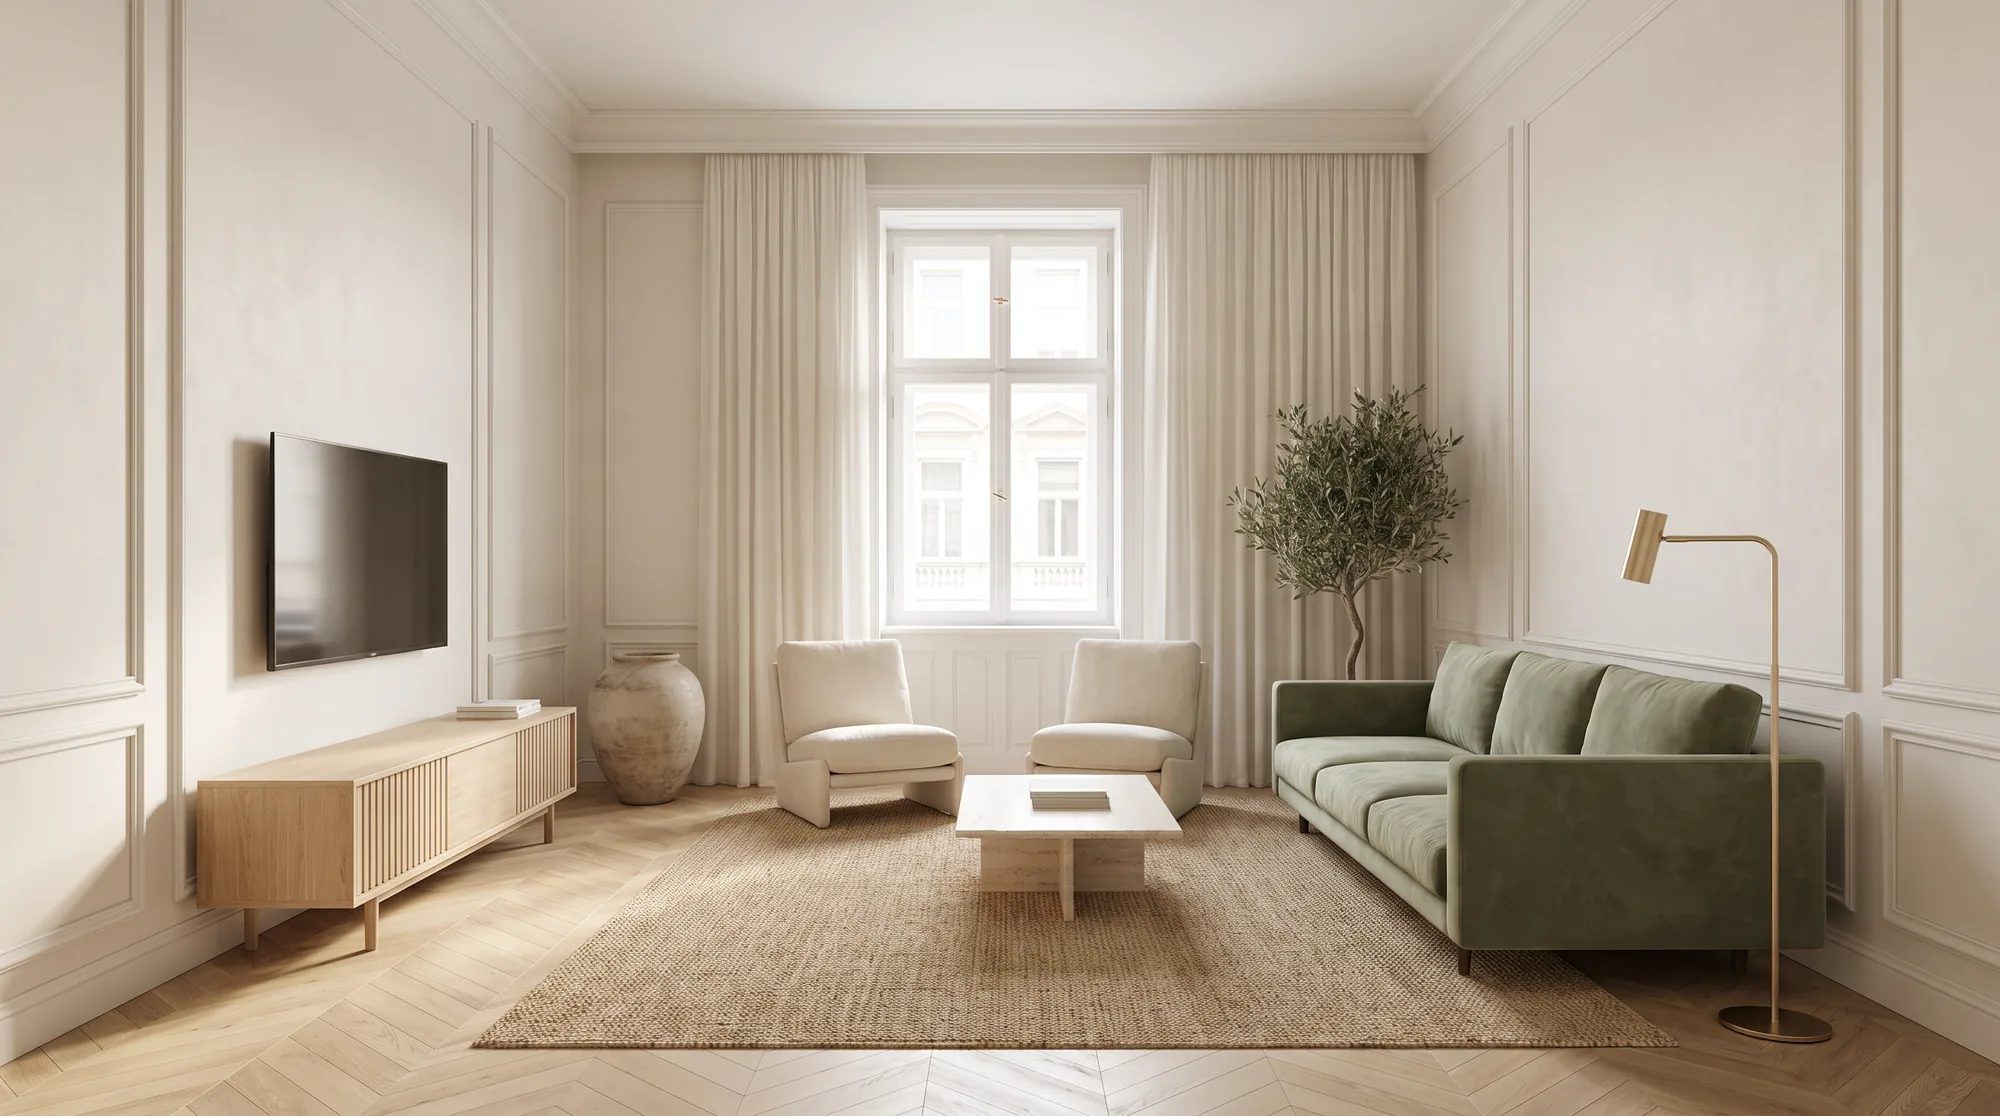
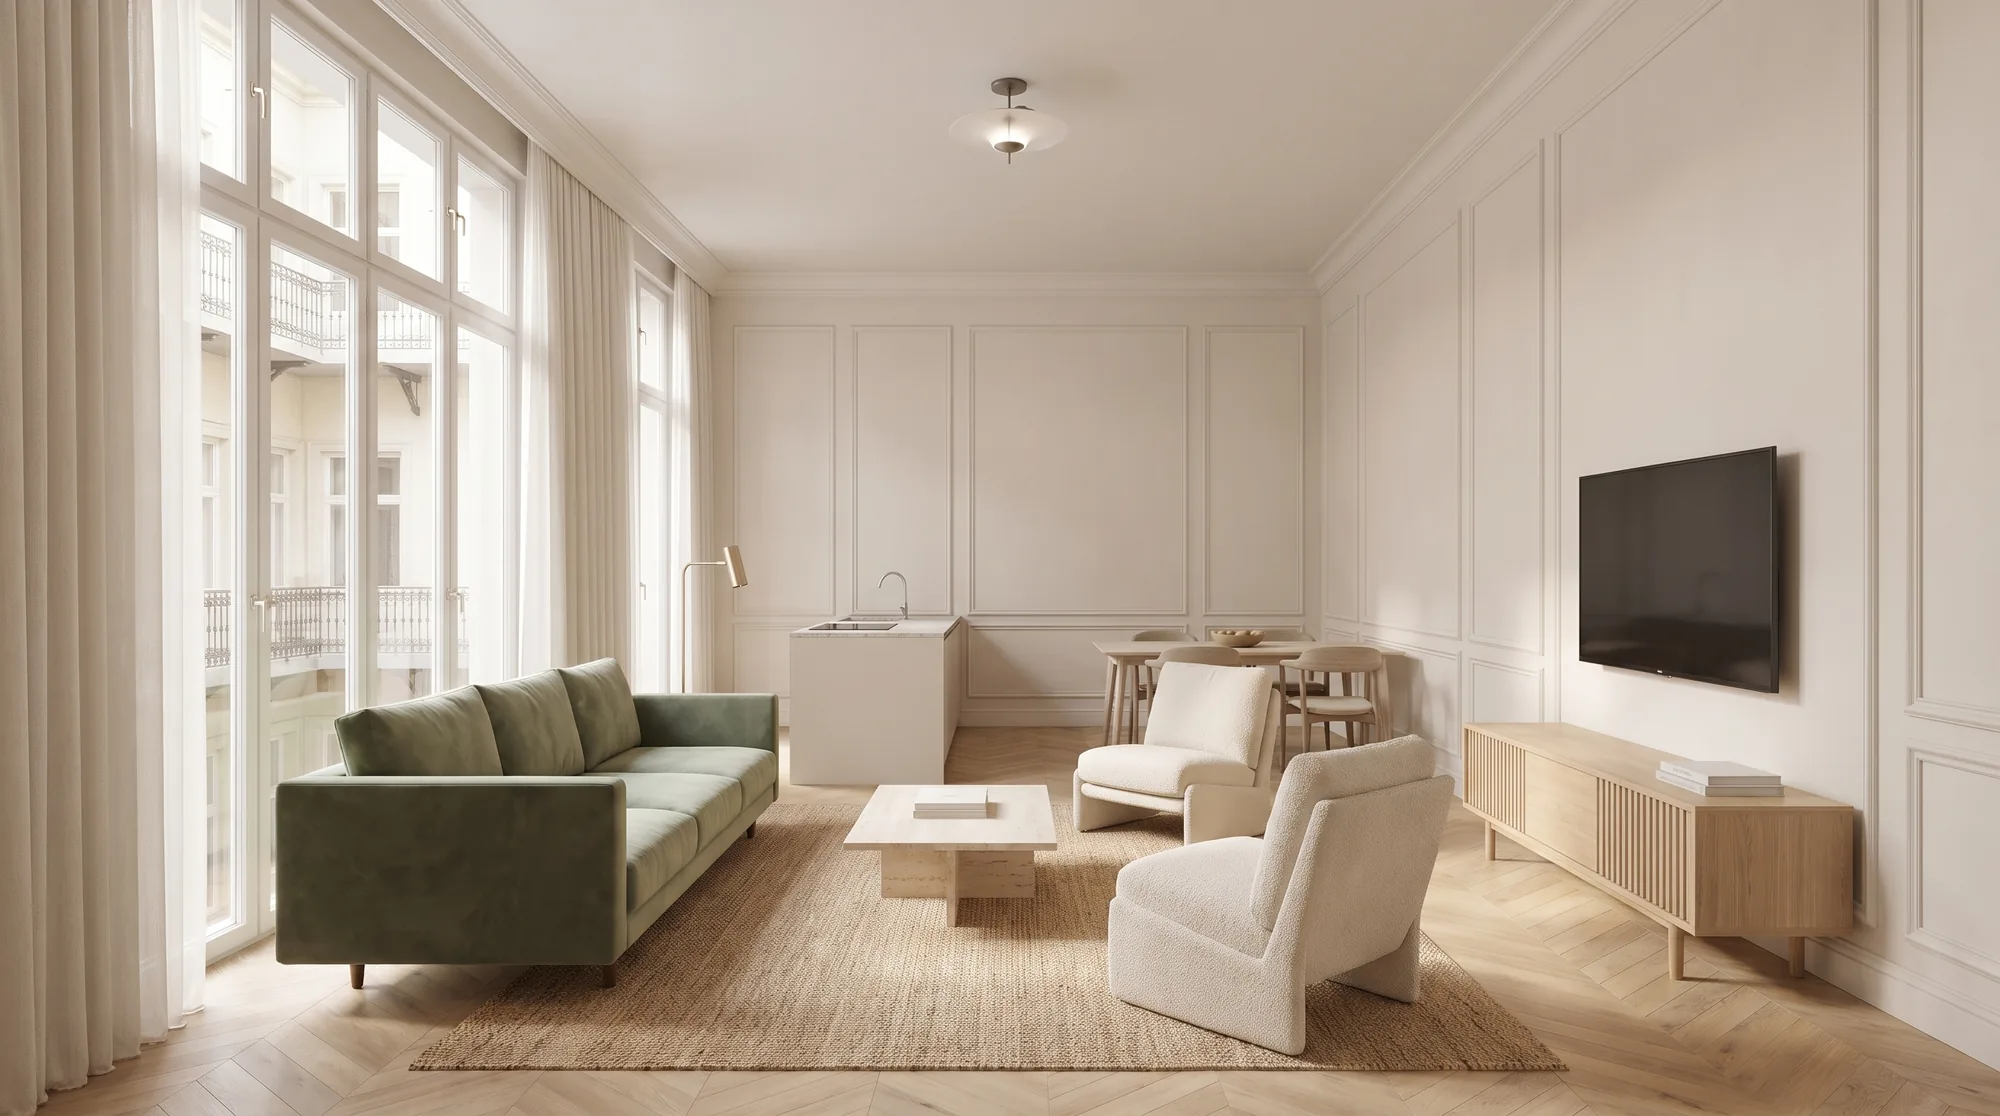
L2: pontosított felülnézet (csak a lakás), új konyha-, fürdő- és nappalikép
Claude-Session: https://claude.ai/code/session_018xvr5icGNy1B7YPTSB9UEA

diff --git a/index.html b/index.html
@@ -602,10 +602,11 @@ footer li{list-style:none;margin-bottom:8px}
         </div>
         <p class="fp-note fp-note-plan"><b>Alaprajz a tervek alapján.</b> Az alaprajz és a felülnézet a jóváhagyott tervrajz szerinti elrendezést mutatja; a helyiségenkénti területek számított, tájékoztató értékek, a lakás hivatalos hasznos alapterülete 54,34 m².</p>
         <div class="fp-gal">
-          <figure class="lbx" data-cap="Nappali"><img src="images/lakasok/l2-nappali.webp" alt="Nappali – zsályazöld bársonykanapé, travertin dohányzóasztal, klasszikus falkeretek, magas ablak" loading="lazy"><figcaption>Nappali</figcaption></figure>
+          <figure class="lbx" data-cap="Nappali"><img src="images/lakasok/l2-nappali.webp" alt="Nappali – zsályazöld bársonykanapé az üvegfal előtt, két fotel, travertin dohányzóasztal, TV a falon" loading="lazy"><figcaption>Nappali</figcaption></figure>
+          <figure class="lbx" data-cap="Konyha"><img src="images/lakasok/l2-konyha.webp" alt="Konyha – egysoros konyha mosogatógéppel, mosogatóval és főzőlappal, felette üvegtégla sáv, balra hűtő- és magasszekrény" loading="lazy"><figcaption>Konyha</figcaption></figure>
           <figure class="lbx" data-cap="Konyha és étkező"><img src="images/lakasok/l2-konyha-etkezo.webp" alt="Konyha és étkező – zsályazöld és világos tölgy konyhabútor travertin pulttal, kerek étkezőasztal" loading="lazy"><figcaption>Konyha és étkező</figcaption></figure>
           <figure class="lbx" data-cap="Hálószoba"><img src="images/lakasok/l2-haloszoba.webp" alt="Hálószoba – kárpitozott franciaágy, zsályazöld ágynemű, kilátás a gardróbra" loading="lazy"><figcaption>Hálószoba</figcaption></figure>
-          <figure class="lbx" data-cap="Fürdőszoba"><img src="images/lakasok/l2-furdoszoba.webp" alt="Fürdőszoba – travertin burkolatú kád, kerek kőmosdó tölgy pultszekrényen, sárgaréz szerelvények" loading="lazy"><figcaption>Fürdőszoba</figcaption></figure>
+          <figure class="lbx" data-cap="Fürdőszoba"><img src="images/lakasok/l2-furdoszoba.webp" alt="Fürdőszoba – zuhany zsályazöld csempével, beépített mosógép, kerek kőmosdó tölgy pultszekrényen, sárgaréz szerelvények" loading="lazy"><figcaption>Fürdőszoba</figcaption></figure>
           <figure class="lbx" data-cap="Gardrób"><img src="images/lakasok/l2-gardrob.webp" alt="Gardrób – világos tölgy szekrényfalak, bordázott üvegajtók, rejtett világítás" loading="lazy"><figcaption>Gardrób</figcaption></figure>
         </div>
         <p class="fp-note"><b>Tájékoztató jellegű látványképek.</b> A belső képek illusztrációk: a berendezés, a bútorok, a világítás és az anyaghasználat a hangulatot mutatják, nem képezik az eladás tárgyát.</p>
